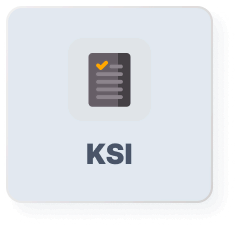
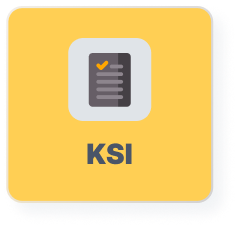
update card + panah di form ke section 1

diff --git a/index.html b/index.html
@@ -83,7 +83,7 @@
           <div class="bgorang bayangan">
             <img class="orang orang-david" src="images/section1/david.webp" alt="david" />
           </div>
-          <img class="kart kart5" src="images/section1/Card/meet-david.webp" alt="meetdavid" />
+          <img class="kart kart5" src="images/section1/Card/Meet-David.webp" alt="meetdavid" />
           <img class="kart kart1" src="images/section1/Card/kpi.webp" alt="kpi" />
           <img class="kart kart2" src="images/section1/Card/evaluation.webp" alt="ksi" />
           <img class="kart kart3" src="images/section1/Card/ksi.webp" alt="evaluation" />
@@ -627,7 +627,7 @@
                 </div>
               </div>
               <div class="content-2" style="margin-top: 108px;">
-                <h1 class="text-uppercase anim-kiri-after" style="margin-bottom: 24px; color: #2b2b29 !important;">peinjauan<br> keahlian</h1>
+                <h1 class="text-uppercase anim-kiri-after" style="margin-bottom: 24px; color: #2b2b29 !important;">peninjauan<br> keahlian</h1>
                 <p class="anim-kiri-after" style="margin-bottom: 24px !important;">Dapatkan informasi secara
                   lengkap dan
                   detail<br>
@@ -1518,10 +1518,10 @@
       <div class="row mt-5">
         <div class="col-12">
           <div class="text-center">
-            <a href="#scope" style="color: inherit;"><i class="fa-solid fa-arrow-up-long"
+            <a href="#section1-1" style="color: inherit;"><i class="fa-solid fa-arrow-up-long"
                 style="font-size: 36px;"></i></a>
-            <a href="#scope" style="color: inherit; text-decoration: none;">
-              <p class="fw-bold text-black" style="cursor: pointer;">See all process above</p>
+            <a href="#section1-1" style="color: inherit; text-decoration: none;">
+              <p class="fw-bold text-black" style="cursor: pointer; font-weight: 700; font-size: 28px;">Lihat semua proses</p>
             </a>
           </div>
         </div>

diff --git a/style.css b/style.css
@@ -280,7 +280,7 @@ h4{
     width: 312px;
     height: 480px;
     border-radius: 25px;
-    background-color: var(--warna2);
+    background-color: #2b2b29;
     margin-left: 17rem;
 }
 
@@ -320,7 +320,7 @@ h4{
 #section1-1 .kart5 {
     width: 236px;
     margin-bottom: 542px;
-    margin-left: 634px;
+    margin-left: 615px;
     object-fit: contain;
 }
 
@@ -1897,7 +1897,7 @@ footer p{
         height: 100%;
     }
     .blog .button a {
-        width: 380px;
+        width: 380px !important;
     }
     .formSection::after {
         height: 60px;
